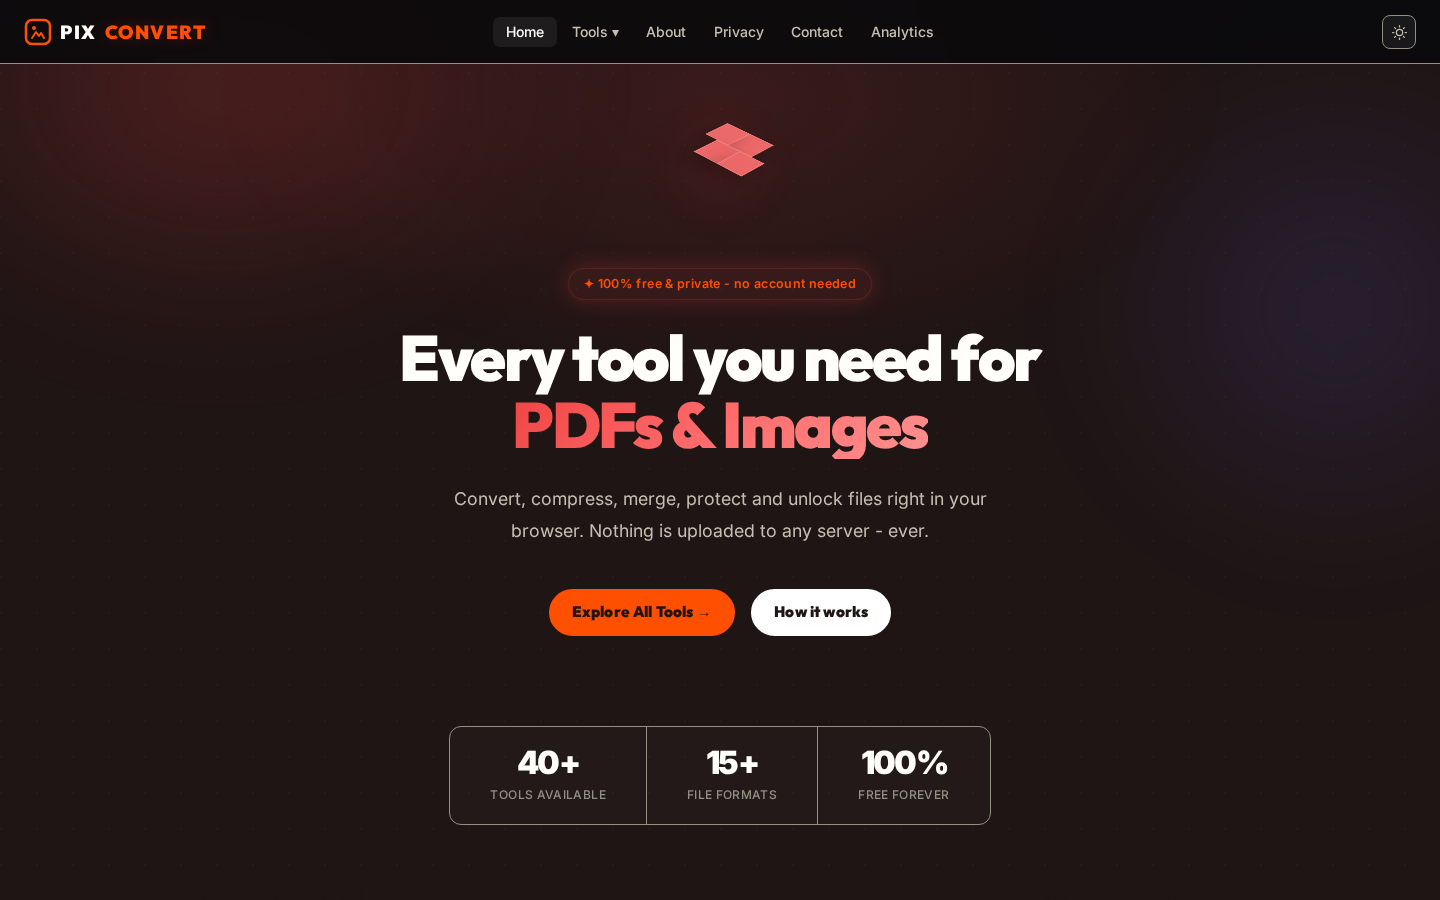
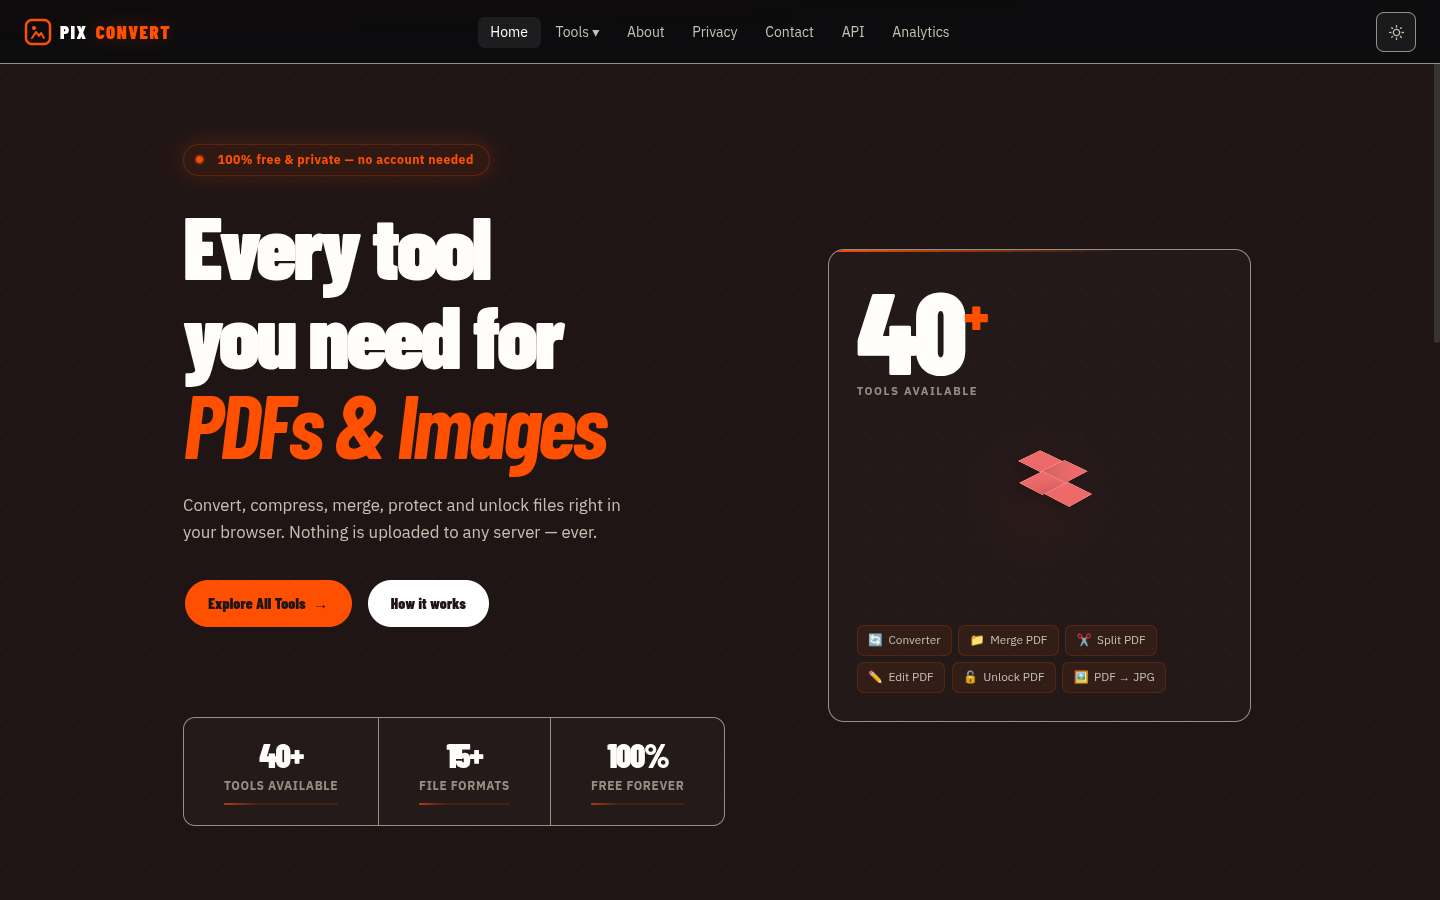
docs: add MIT LICENSE, fix README license section, refresh screenshots
- Create LICENSE file (MIT, 2026, Rushikesh Sakharle)
- Add "license": "MIT" field to package.json
- Remove Maintainer TODO block from README license section
  (was: 'No LICENSE file' notice; now: links to LICENSE)
- Refresh docs/screenshots/home-dark.png + home-light.png
  with latest visual QA fixes applied

diff --git a/README.md b/README.md
@@ -405,9 +405,4 @@ Bug reports and feature requests: open a [GitHub issue](https://github.com/rushi
 
 ## License
 
-This project is declared as MIT in its package metadata. No `LICENSE` file is currently present in the repository.
-
-<!-- Maintainer TODOs:
-  - Add a LICENSE file at the repository root with the MIT license text (year: 2026, author: Rushikesh Sakharle).
-  - Add `"license": "MIT"` to package.json.
--->
+This project is licensed under the MIT License. See [LICENSE](LICENSE) for details.